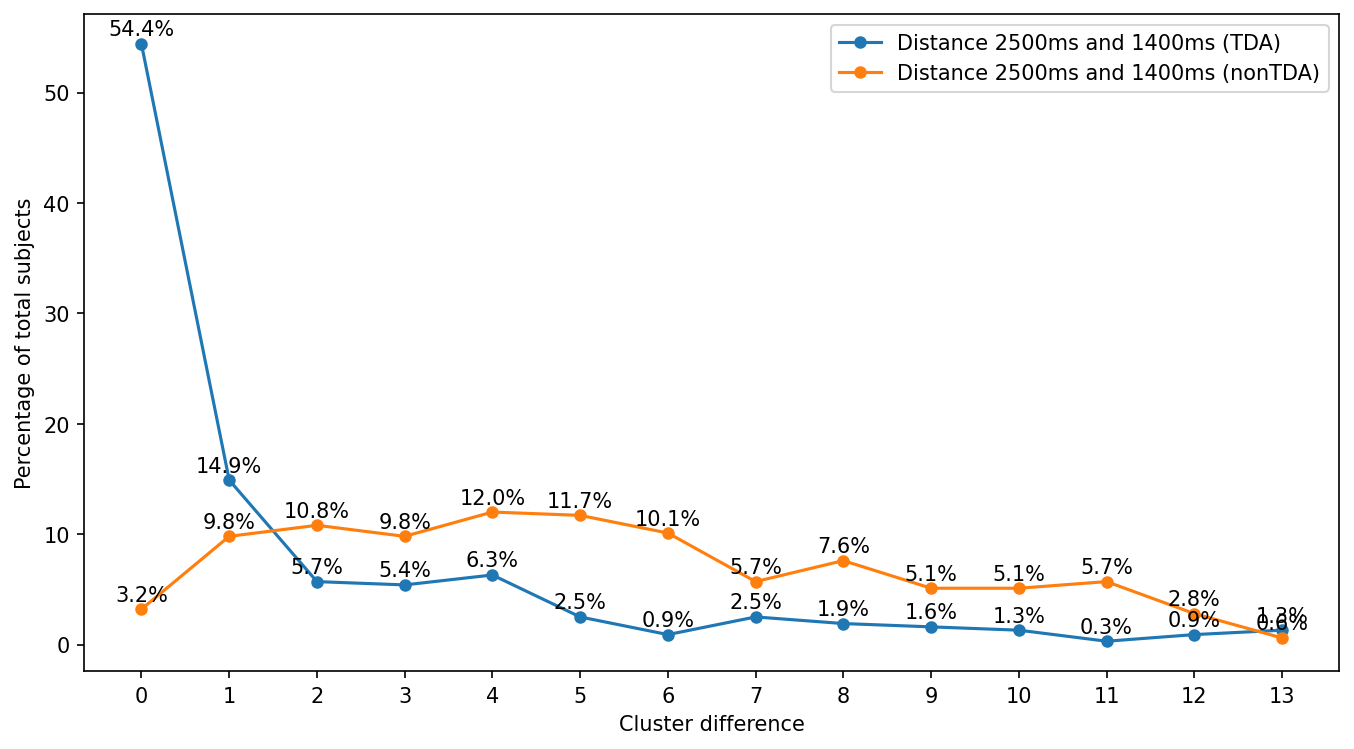
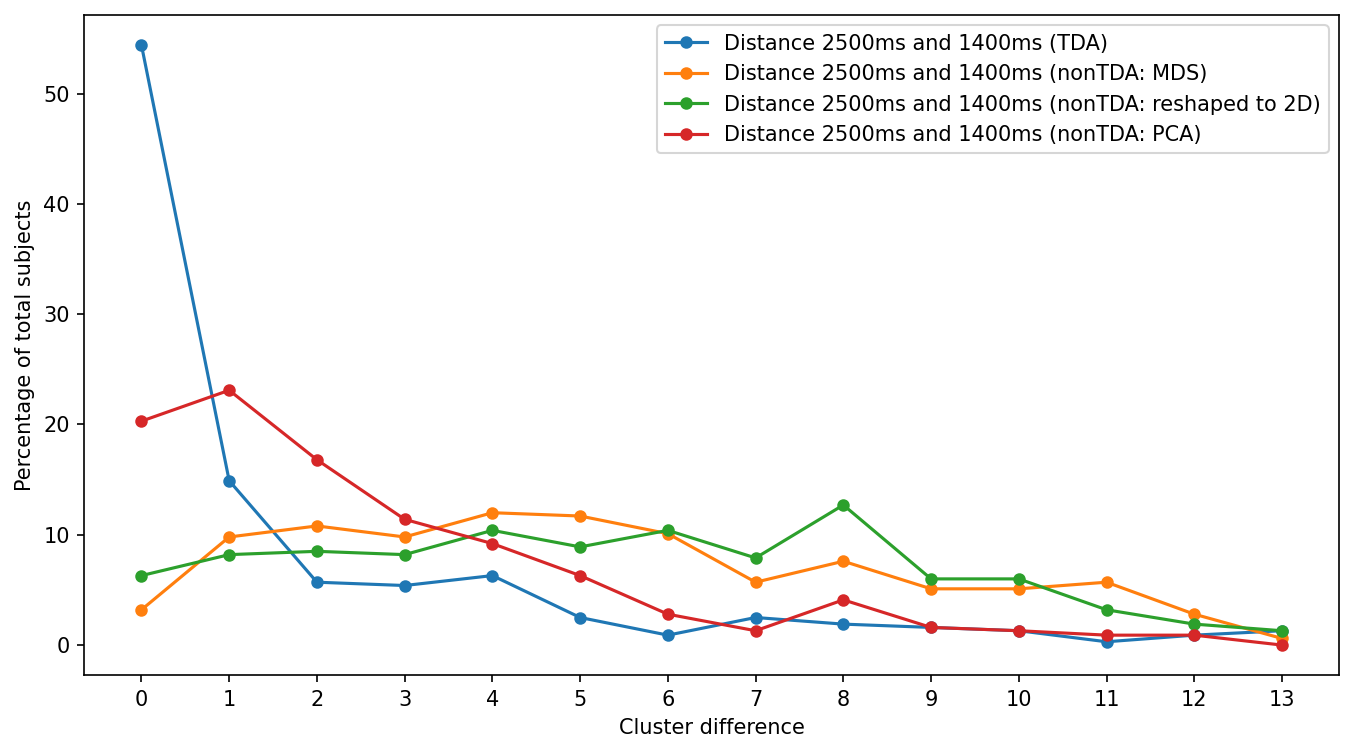
updated linecharts

diff --git a/graph_generation.py b/graph_generation.py
@@ -84,7 +84,7 @@ def draw_line_chart(datasets, dataset_titles,
                     x_label=None,
                     y_label=None,
                     title=None, figure_path=None, limit_y=None,
-                    show_text_label=True,
+                    show_text_label=False,
                     log_scale=False):
     datasets = round_values(datasets)
     fig, ax = plt.subplots(figsize=(8, 4))
@@ -128,12 +128,25 @@ def show_pairwise_2500_1400():
         3.165, 9.81, 10.759, 9.81, 12.025, 11.709, 10.127, 5.696, 7.595, 5.063,
         5.063, 5.696, 2.848, 0.633
     ]
-    distance_2500_1400_nontda_title = "Distance 2500ms and 1400ms (nonTDA)"
+    distance_2500_1400_nontda_title = "Distance 2500ms and 1400ms (nonTDA: MDS)"
+
+    distance_2500_1400_nontda_reshape = [6.329, 8.228, 8.544, 8.228, 10.443, 8.861, 10.443, 7.911, 12.658, 6.013,
+                                         6.013, 3.165, 1.899,
+                                         1.266]
+    distance_2500_1400_nontda_reshape_title = "Distance 2500ms and 1400ms (nonTDA: reshaped to 2D)"
+    distance_2500_1400_nontda_pca = [20.253, 23.101, 16.772, 11.392, 9.177, 6.329, 2.848, 1.266, 4.114, 1.582,
+                                     1.266,
+                                     0.949,
+                                     0.949, 0]
+    distance_2500_1400_nontda_pca_title = "Distance 2500ms and 1400ms (nonTDA: PCA)"
+
     x_label = "Cluster difference"
     y_label = "Percentage of total subjects"
-    draw_line_chart([distance_2500_1400, distance_2500_1400_nontda],
+    draw_line_chart([distance_2500_1400, distance_2500_1400_nontda, distance_2500_1400_nontda_reshape,
+                     distance_2500_1400_nontda_pca],
                     [distance_2500_1400_title,
-                     distance_2500_1400_nontda_title],
+                     distance_2500_1400_nontda_title, distance_2500_1400_nontda_reshape_title,
+                     distance_2500_1400_nontda_pca_title],
                     x_label, y_label,
                     figure_path="drawing/pairwise_2500_1400.png")
 
@@ -147,14 +160,24 @@ def show_pairwise_1400_645():
     distance_1400_645_nontda = [12.342, 14.873, 12.975, 8.228, 11.076, 9.810,
                                 7.595, 5.380, 7.911, 3.797, 2.215, 1.582,
                                 1.266, 0.949]
-    distance_1400_645_nontda_title = "Distance 1400ms and 645ms (nonTDA)"
+    distance_1400_645_nontda_title = "Distance 1400ms and 645ms (nonTDA: MDS)"
+
+    distance_1400_645_nontda_reshape = [32.911, 25.633, 16.772, 7.595, 7.278, 4.747, 0.949, 1.899, 1.899, 0.316, 0, 0,
+                                        0, 0]
+    distance_1400_645_nontda_reshape_title = "Distance 1400ms and 645ms (nonTDA: reshaped to 2D)"
+    distance_1400_645_nontda_pca = [22.152, 14.557, 13.608, 12.975, 7.278, 5.38, 4.747, 5.38, 4.43, 3.797, 2.532, 2.532,
+                                    0.633, 0]
+    distance_1400_645_nontda_pca_title = "Distance 1400ms and 645ms (nonTDA: PCA)"
+
     x_label = "Cluster difference"
     y_label = "Percentage of total subjects"
-    draw_line_chart([distance_1400_645, distance_1400_645_nontda],
-                    [distance_1400_645_title, distance_1400_645_nontda_title],
-                    x_label, y_label,
-                    figure_path="drawing/pairwise_1400_645.png",
-                    log_scale=False)
+    draw_line_chart(
+        [distance_1400_645, distance_1400_645_nontda, distance_1400_645_nontda_reshape, distance_1400_645_nontda_pca],
+        [distance_1400_645_title, distance_1400_645_nontda_title, distance_1400_645_nontda_reshape_title,
+         distance_1400_645_nontda_pca_title],
+        x_label, y_label,
+        figure_path="drawing/pairwise_1400_645.png",
+        log_scale=False)
 
 
 def show_pairwise_645_2500():
@@ -166,14 +189,26 @@ def show_pairwise_645_2500():
     distance_645_2500_nontda = [4.114, 7.278, 10.759, 10.127, 8.544, 5.696,
                                 9.177, 6.962, 6.962, 6.329, 8.544, 6.962,
                                 6.329, 2.215]
-    distance_645_2500_nontda_title = "Distance 645ms and 2500ms (nonTDA)"
+    distance_645_2500_nontda_title = "Distance 645ms and 2500ms (nonTDA: MDS)"
+
+    distance_645_2500_nontda_reshape = [5.38, 8.228, 7.911, 7.911, 6.962, 6.329, 11.392, 9.177, 14.241, 8.228, 5.063,
+                                        3.481, 3.797,
+                                        1.899]
+    distance_645_2500_nontda_reshape_title = "Distance 645ms and 2500ms (nonTDA: reshaped to 2D)"
+
+    distance_645_2500_nontda_pca = [17.722, 22.152, 15.823, 12.658, 7.911, 5.38, 5.38, 2.532, 4.114, 2.848, 1.266,
+                                    0.633,
+                                    1.582, 0]
+    distance_645_2500_nontda_pca_title = "Distance 1400ms and 645ms (nonTDA: PCA)"
 
     x_label = "Cluster difference"
     y_label = "Percentage of total subjects"
-    draw_line_chart([distance_645_2500, distance_645_2500_nontda],
-                    [distance_645_2500_title, distance_645_2500_nontda_title],
-                    x_label, y_label,
-                    figure_path="drawing/pairwise_645_2500.png")
+    draw_line_chart(
+        [distance_645_2500, distance_645_2500_nontda, distance_645_2500_nontda_reshape, distance_645_2500_nontda_pca],
+        [distance_645_2500_title, distance_645_2500_nontda_title, distance_645_2500_nontda_reshape_title,
+         distance_645_2500_nontda_pca_title],
+        x_label, y_label,
+        figure_path="drawing/pairwise_645_2500.png")
 
 
 def show_tda_pairwise():
@@ -235,12 +270,16 @@ def show_tda_nontda():
     first_dataset_title = "TDA"
     second_dataset = [.32, 1.27, 2.85, 4.75, 7.28, 11.08, 9.81, 8.86, 10.76,
                       10.13, 10.44, 10.13, 9.18, 3.16]
-    second_dataset_title = "nonTDA"
+    second_dataset_title = "nonTDA (MDS)"
+    third_dataset = [2.22, 3.8, 7.28, 7.28, 7.91, 7.59, 10.13, 10.76, 15.82, 10.76, 6.96, 3.48, 4.11, 1.9]
+    third_dataset_title = "nonTDA (reshaped to 2D)"
+    fourth_dataset = [6.01, 12.97, 12.97, 14.56, 11.39, 9.49, 6.65, 5.06, 6.65, 5.38, 3.8, 2.53, 2.53, 0]
+    fourth_dataset_title = "nonTDA (PCA)"
     x_label = "Cluster difference"
     y_label = "Percentage of total subjects"
     title = "TDA and nonTDA distance comparison"
-    draw_line_chart([first_dataset, second_dataset],
-                    [first_dataset_title, second_dataset_title, ],
+    draw_line_chart([first_dataset, second_dataset, third_dataset, fourth_dataset],
+                    [first_dataset_title, second_dataset_title, third_dataset_title, fourth_dataset_title],
                     x_label, y_label,
                     figure_path="drawing/tda_nontda.png")
 
@@ -272,7 +311,7 @@ if __name__ == "__main__":
     # plt.show()
 
     show_tda_nontda()
-    show_nontda_pairwise()
+    # show_nontda_pairwise()
     show_pairwise_2500_1400()
     show_pairwise_645_2500()
-    # show_pairwise_1400_645()
+    show_pairwise_1400_645()
